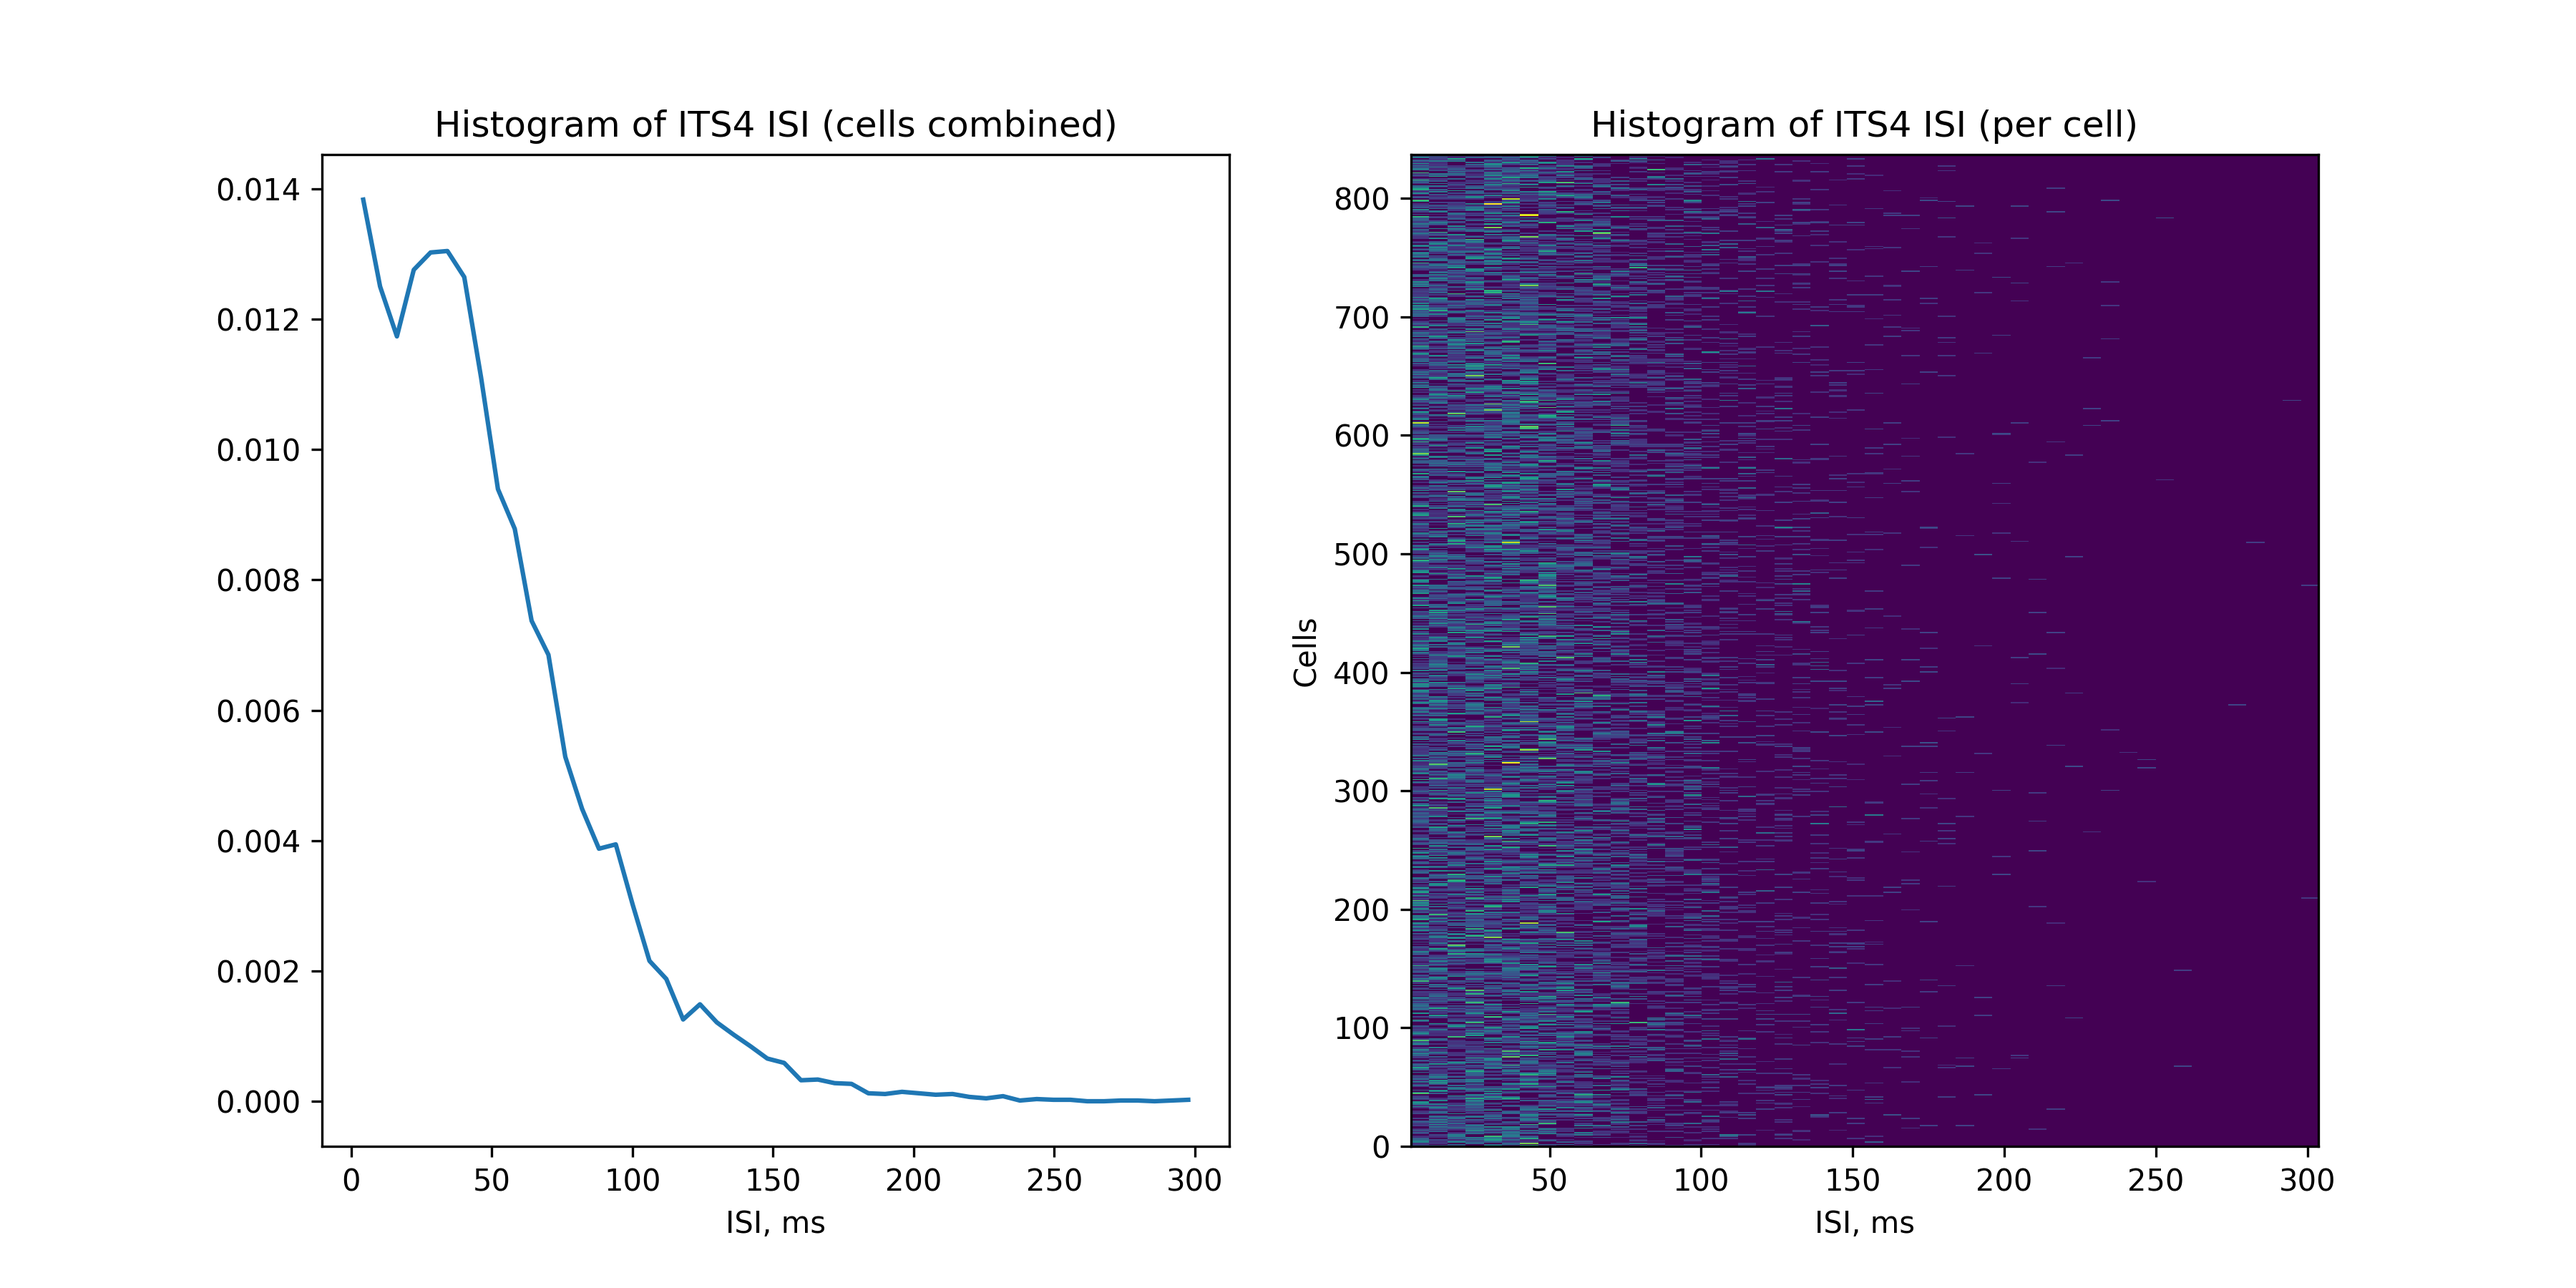
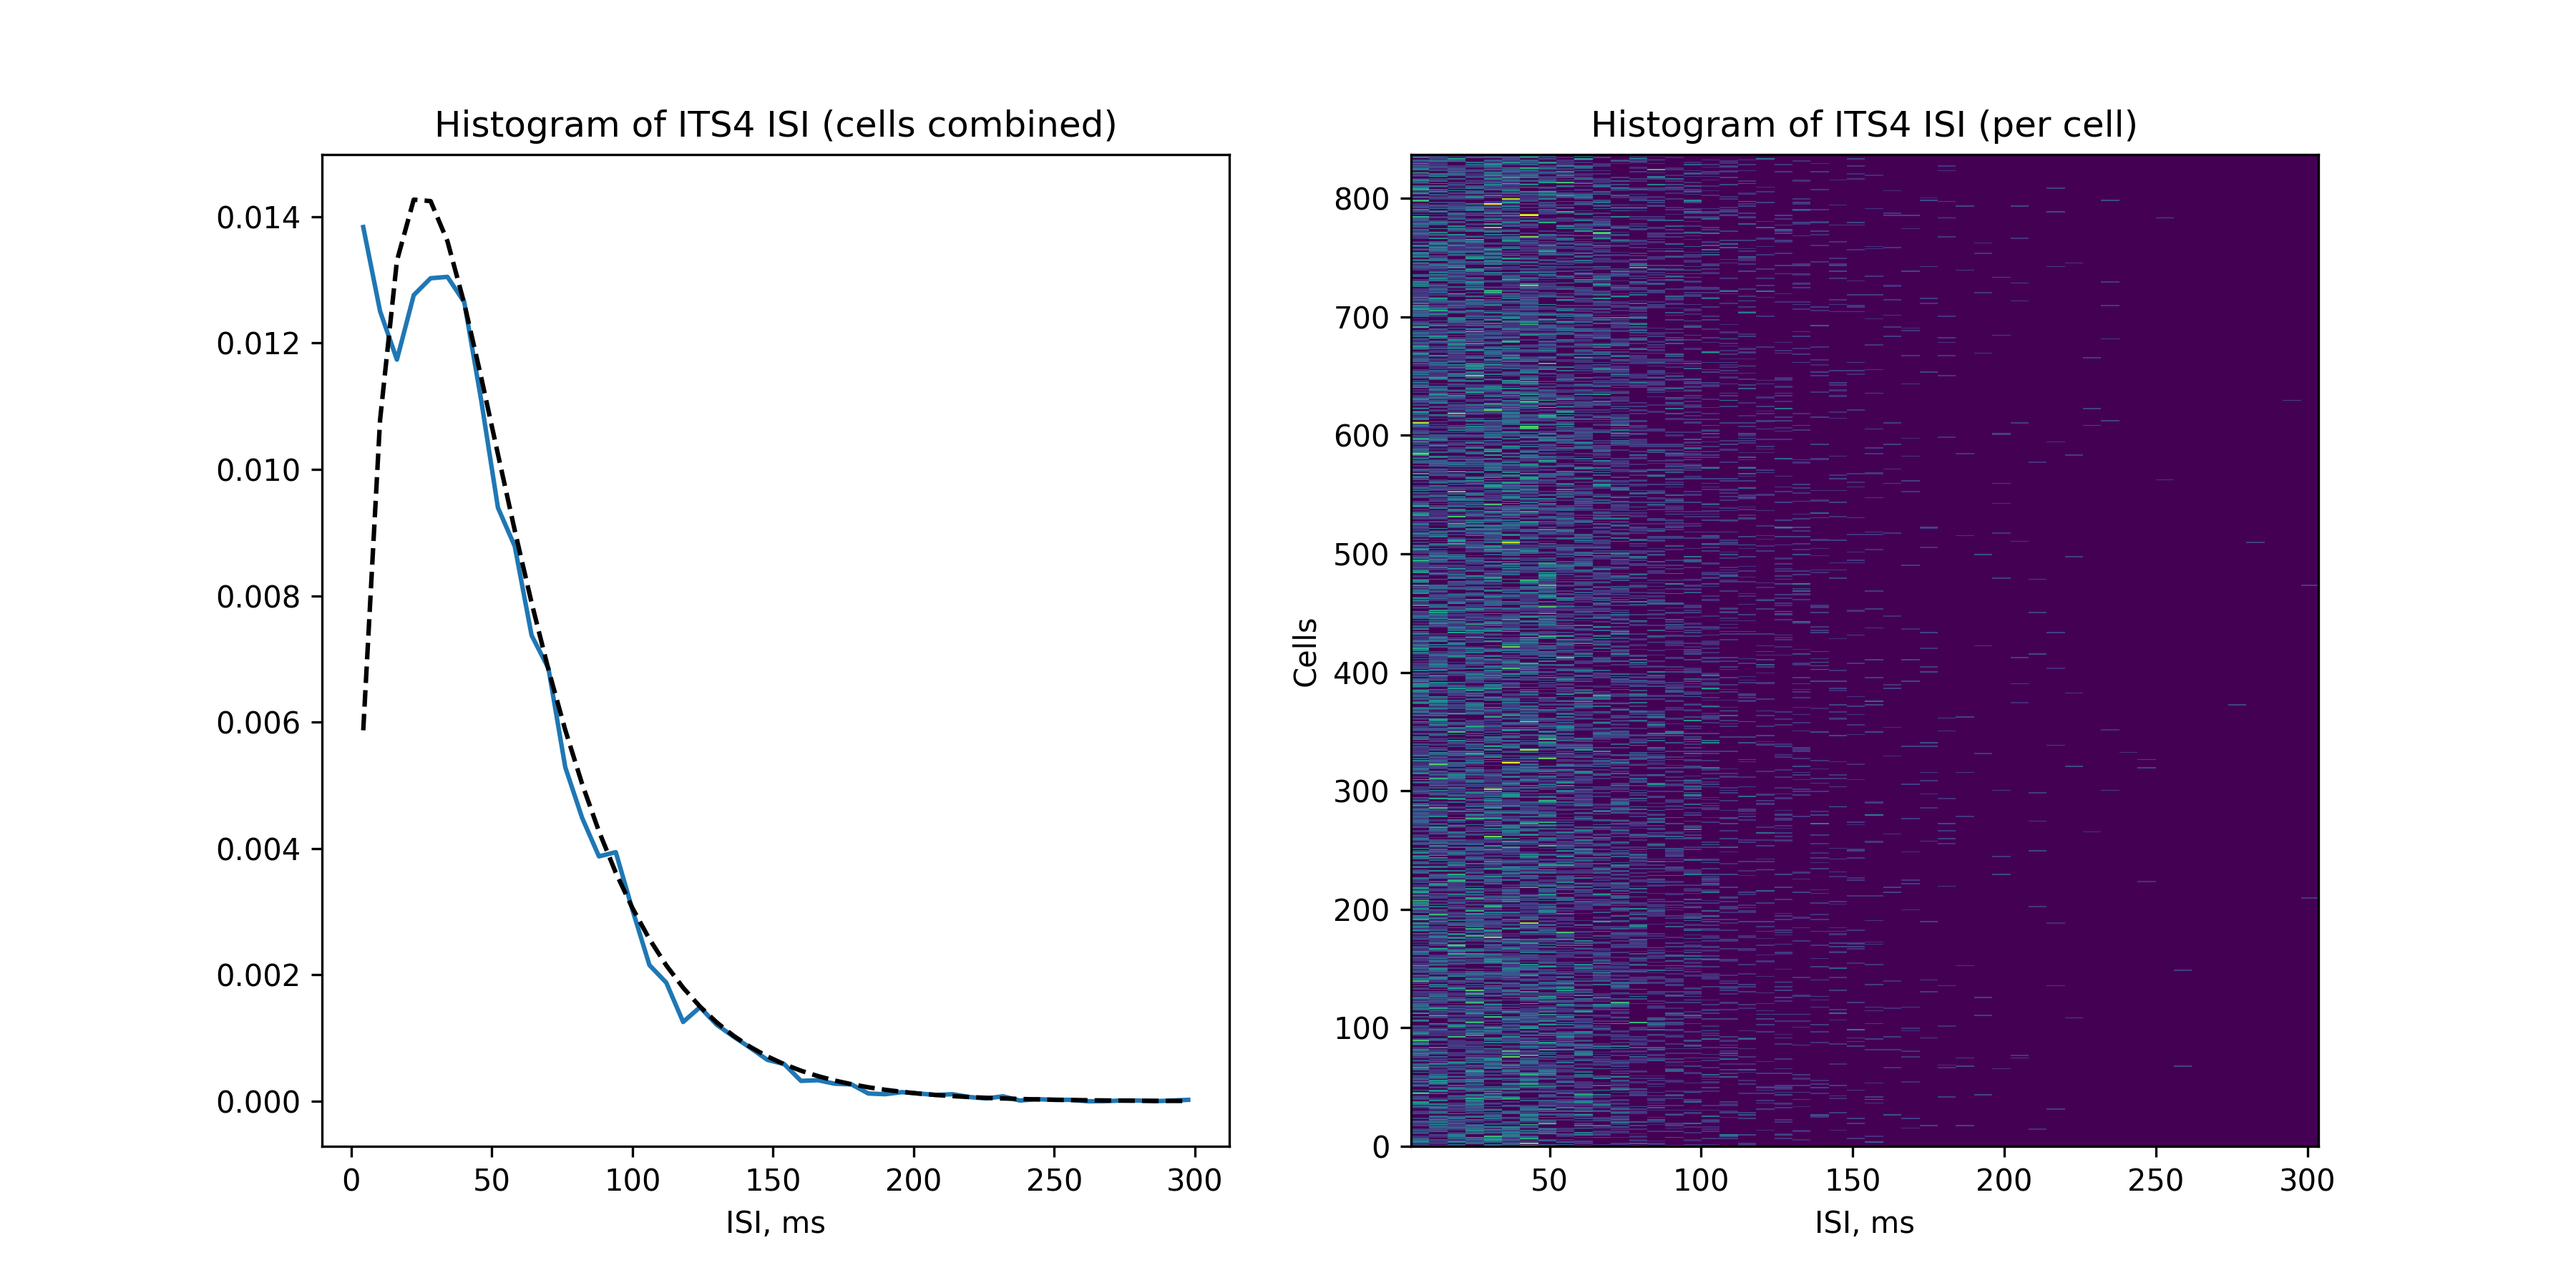
Add fitted gamma distribution to CV ISI plots

diff --git a/analysis/ou_tuning/plot_isi_hist.py b/analysis/ou_tuning/plot_isi_hist.py
@@ -5,6 +5,7 @@ import pickle
 import matplotlib
 import matplotlib.pyplot as plt
 import numpy as np
+from scipy.stats import gamma
 
 from batch_result_manager import BatchResultManager
 import netpyne_res_parse_utils as parse_utils
@@ -15,8 +16,8 @@ dirpath_base = Path(
 )
 
 params = {
-    'ou_mean': 0.002,
-    'ou_std': 0.0125
+    'ou_mean': 0.0,
+    'ou_std': 0.005
 }
 
 pop_vis = 'ITS4'
@@ -58,6 +59,10 @@ for n in range(ncells):
     H[n, :], _ = np.histogram(cell_ISI[n], bins=bins,
                               density=True)
 
+# Fit gamma distribution to the histogram
+gamma_k, gamma_loc, gamma_scale = gamma.fit(all_ISI, floc=0)
+h_gamma = gamma.pdf(bins[:-1], gamma_k, loc=gamma_loc, scale=gamma_scale)
+
 #matplotlib.use('Agg', force=True)
 
 # Plot ISI histograms
@@ -66,8 +71,25 @@ plt.figure(figsize=(12, 6))
 
 plt.subplot(1, 2, 1)
 plt.plot(bins[:-1], h)
+plt.plot(bins[:-1], h_gamma, 'k--')
 plt.title(f'Histogram of {pop_vis} ISI (cells combined)')
 plt.xlabel('ISI, ms')
+plt.xlim(-10, 1000)
+plt.ylim(0, 0.01)
+
+# Add a text box to the top-right corner of the plot
+r = 1000. / gamma_k / gamma_scale
+CV = np.sqrt(1 / gamma_k)
+text_str = (
+    f'Gamma_k: {gamma_k:.2f}\n'
+    f'Rate: {r:.2f} Hz\n'
+    f'CV: {CV:.2f}'
+)    
+plt.text(0.95, 0.95, text_str,
+         horizontalalignment='right',
+         verticalalignment='top',
+         transform=plt.gca().transAxes,
+         bbox=dict(facecolor='white', edgecolor='black'))
 
 plt.subplot(1, 2, 2)
 extent = (bins[0], bins[-1], 0, ncells)
@@ -84,8 +106,8 @@ plt.show()
 dirpath_out = dirpath_base / 'plots_ISI'
 os.makedirs(dirpath_out, exist_ok=True)
 fname_fig = (f'ISI_hist_{pop_vis}'
-             f'_oumean_{params["ou_mean"] * 100}'
-             f'_oustd_{params["ou_std"] * 100}'
+             f'_oumean_{params["ou_mean"] * 100 : .02f}'
+             f'_oustd_{params["ou_std"] * 100 : .02f}'
              '.png')
 fpath_out = dirpath_out / fname_fig
 plt.savefig(fpath_out, dpi=300)
